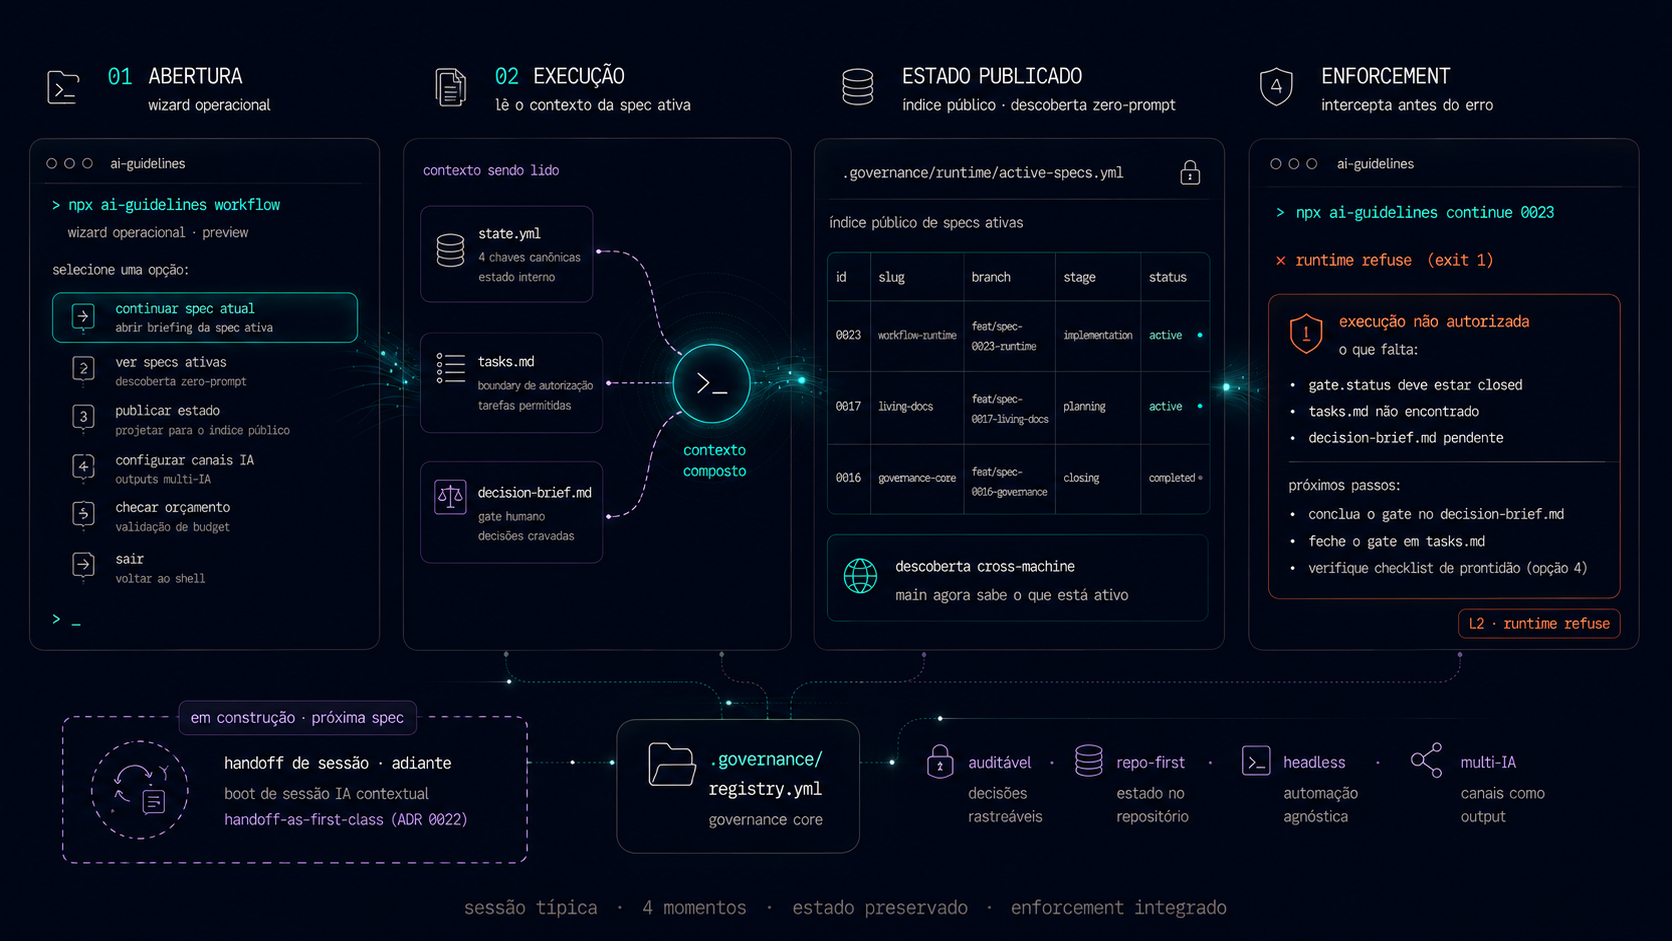
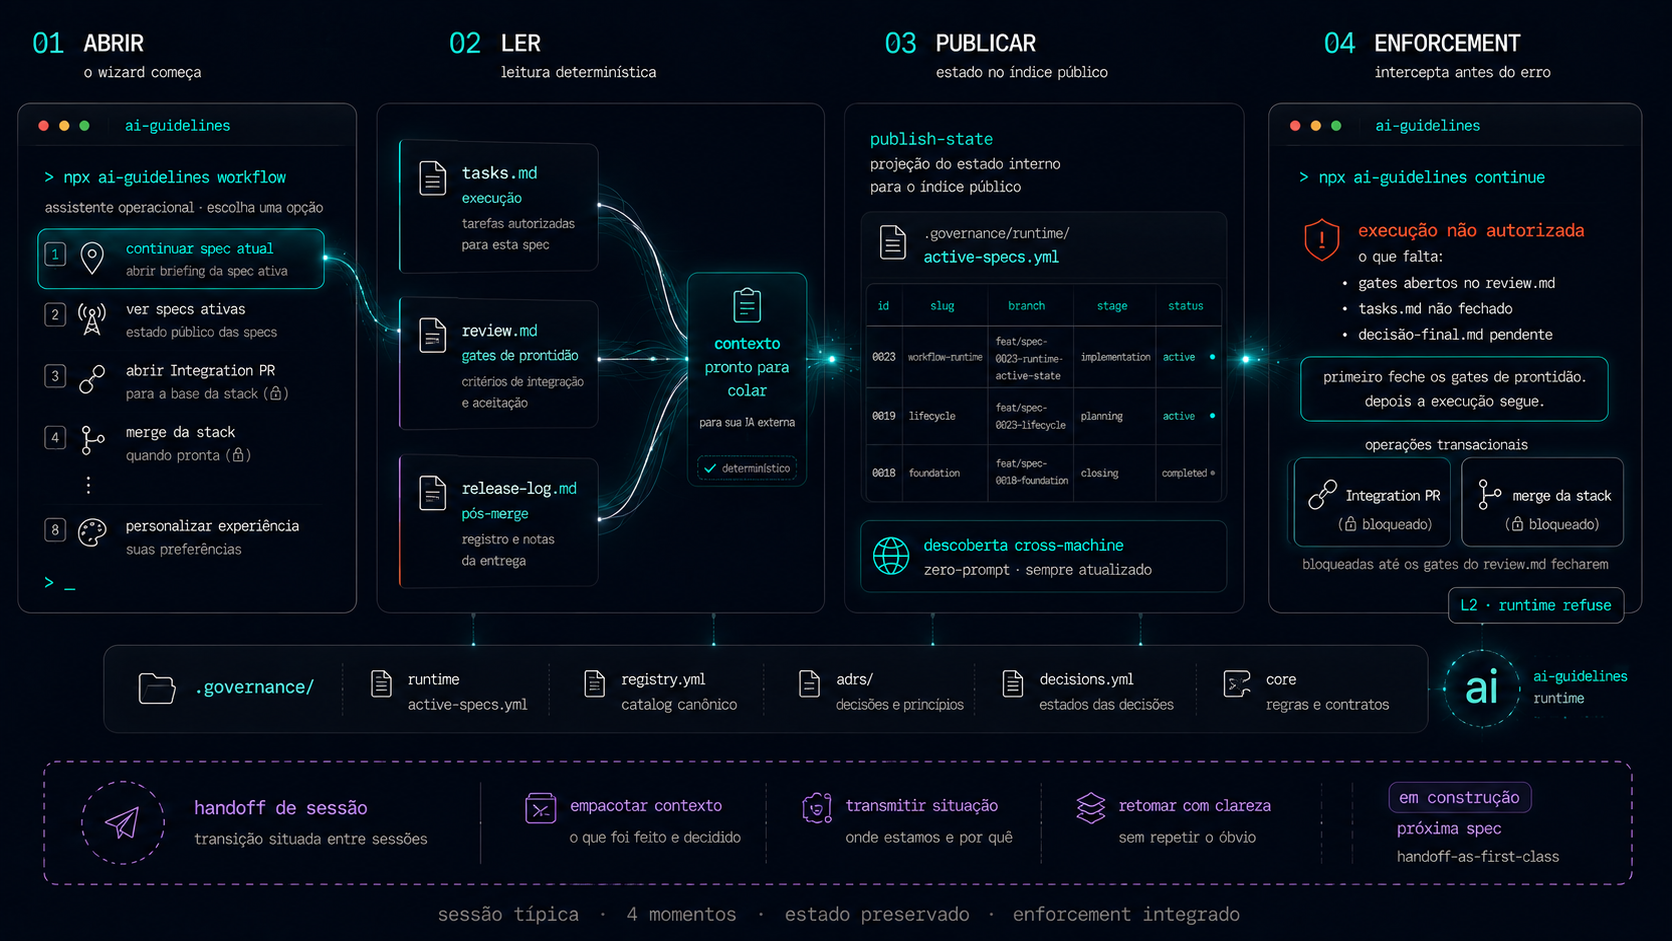
docs(editorial): prompts de imagem refletem runtime atual (R4)
readme-dx-flow: wizard 8 opções, rótulos operacionais Execução/Prontidão/Pós-merge, linhas literais de terminal, sanity checklist, bloco LÍNGUA. capability: review/release-prep nas secundárias, sem jargão L2. before-after: review.md + release-log.md nos artifacts. README da pasta: regra de sincronização. Imagem dx-flow regenerada.

diff --git a/docs/editorial/readme-dx-flow.prompt.md b/docs/editorial/readme-dx-flow.prompt.md
@@ -46,10 +46,10 @@ OBJETIVO VISUAL
 
 Mostrar 1 sessão típica com o framework, em **4 momentos honestos do que está entregue**:
 
-1. ABERTURA: terminal com `npx ai-guidelines workflow` — wizard aparece com 6 opções declarativas.
-2. EXECUÇÃO: usuário escolhe uma opção (ex.: continuar spec atual). Runtime lê `state.yml` + `tasks.md` + `decision-brief.md` da spec — representado por linhas finas convergindo no centro.
+1. ABERTURA: terminal com `npx ai-guidelines workflow` — wizard aparece com 8 opções declarativas, cada uma com ícone (📍 📍 📡 🔗 🔀 📋 🔍 🎨).
+2. LEITURA DETERMINÍSTICA (3 boundaries): usuário escolhe uma opção (ex.: continuar spec atual). Runtime lê os artifacts da spec organizados em três boundaries, com rótulos operacionais visíveis na imagem — **Execução** (`tasks.md`), **Prontidão** (`review.md`), **Pós-merge** (`release-log.md`) — representado por linhas finas convergindo no centro. Monta o "contexto pronto para colar" na IA externa.
 3. ESTADO PUBLICADO: `publish-state` projeta o estado interno para `.governance/runtime/active-specs.yml` (índice público). Cross-machine, descoberta zero-prompt.
-4. ENFORCEMENT: quando algo está fora de ordem (gate.status ≠ closed, tasks.md ausente), `continue` recusa narrativamente — não bloqueia silencioso, explica o que falta.
+4. ENFORCEMENT + READINESS GATE: quando algo está fora de ordem, o runtime intercepta narrativamente — `continue` recusa execução (gate de execução não fechado), e as ops transacionais 🔗 (Integration PR) e 🔀 (merge da stack) ficam **bloqueadas** enquanto os gates do `review.md` não fecharem. Não bloqueia silencioso: explica o que falta.
 
 A imagem comunica, em 5 segundos:
 
@@ -92,18 +92,31 @@ COMPOSIÇÃO
 Layout horizontal em 4 momentos com transições orgânicas:
 
 **Momento 1 — esquerda** (~25% da largura):
-Terminal sutil com prompt `> npx ai-guidelines workflow`. Logo abaixo, menu do wizard aparece com 6 opções declarativas curtas (não detalhar todas — sugerir as 3-4 primeiras). Tom: convidativo, não denso. Accent principal #5EEAD4.
+Terminal sutil com prompt `> npx ai-guidelines workflow`. Logo abaixo, menu do wizard aparece com 8 opções declarativas curtas (não detalhar todas — sugerir as 3-4 primeiras). Tom: convidativo, não denso. Accent principal #5EEAD4.
 
 **Momento 2 — centro-esquerda** (~25%):
-A escolha materializa uma ação. Linhas finas e silenciosas convergem dos artifacts da spec (`.governance/specs/<slug>/state.yml`, `tasks.md`, `decision-brief.md`) para o centro do quadro — representação visual de leitura determinística. Sem labels narrativos ("executando…", "carregando…"); a geometria comunica.
+A escolha materializa uma ação. Linhas finas e silenciosas convergem dos artifacts da spec, sutilmente agrupados em **três boundaries** com rótulos operacionais visíveis — **Execução** (`tasks.md`), **Prontidão** (`review.md`), **Pós-merge** (`release-log.md`) — para o centro do quadro, representação visual de leitura determinística. Pode sugerir um pequeno cartão "contexto pronto para colar". Sem labels narrativos ("executando…", "carregando…"); a geometria comunica.
 
 **Momento 3 — centro-direita** (~25%):
 Estado projetado para o índice público `.governance/runtime/active-specs.yml` — pequena tabela esquemática com 2-3 entries (id, slug, branch, stage, status). Selo discreto: "descoberta cross-machine". A força aqui é "main agora sabe o que está ativo".
 
 **Momento 4 — direita** (~25%):
-Enforcement em ação. Um caminho de execução é interceptado pelo runtime (`continue` retorna exit 1) com mensagem narrativa visível (não modal de erro corporativo — texto humano). Glow leve em #5EEAD4. Badge minúsculo: "L2 · runtime refuse".
+Enforcement + readiness gate em ação. Um caminho de execução é interceptado pelo runtime (`continue` retorna exit 1) com mensagem narrativa visível (não modal de erro corporativo — texto humano). Ao lado, as ops transacionais 🔗 e 🔀 aparecem com um pequeno cadeado discreto — bloqueadas enquanto os gates do `review.md` não fecharem. Glow leve em #5EEAD4. Badge minúsculo: "L2 · runtime refuse".
 
 Entre os momentos: respiração orgânica, transições suaves por luz. Nenhuma seta dura. A leitura é por geometria, não por numeração agressiva.
+
+————————————————————
+TEXTO LITERAL DO TERMINAL (renderizar exatamente, sem traduzir)
+————————————————————
+
+Para reduzir alucinação do gerador, use estas linhas reais do runtime nos terminais/cartões (monospace, pt-BR, exatamente como saem na CLI — não inventar outras):
+
+- Momento 1 (prompt): `> npx ai-guidelines workflow`
+- Momento 4 (bloqueio): `🔒 Integration PR bloqueado — homologação (review.md) ainda aberta.`
+- Momento 4 (itens abertos): `Itens abertos detectados em review.md:`
+- Momento 2 (handoff de contexto): `──── Contexto pronto para colar na sua IA externa ────`
+
+NÃO renderizar identificadores internos (`DEC-…`, `ADR-…`, `[1.H]`) no texto visível — usar apenas os rótulos operacionais (**Execução / Prontidão / Pós-merge**) e as linhas literais acima.
 
 ————————————————————
 ELEMENTO DIRECIONAL — HANDOFF EM CONSTRUÇÃO
@@ -154,4 +167,26 @@ A imagem deve transmitir:
 A pessoa que olha precisa sentir, sem ler nada:
 
 "trabalhar aqui é diferente — o contexto sobrevive entre sessões, e o runtime intercepta antes do erro humano custar".
+
+————————————————————
+LÍNGUA (NÃO-NEGOCIÁVEL)
+————————————————————
+
+TODO texto renderizado na imagem deve ser em **Português do Brasil (pt-BR)**. NÃO gerar texto em inglês. A única exceção são identificadores em monospace que são literais de comando/código (`npx ai-guidelines workflow`, `tasks.md`, `review.md`, `release-log.md`, `active-specs.yml`, `continue`) — esses mantêm a forma original. Selos, badges, títulos e legendas: sempre pt-BR.
 </prompt>
+
+---
+
+## Sanity checklist — o que DEVE aparecer na imagem
+
+Use para validar a imagem gerada antes de salvar em `docs/assets/ai-guidelines-dx-flow.png`:
+
+- [ ] **4 momentos** legíveis da esquerda para a direita, conectados por luz/geometria (não por setas duras).
+- [ ] **Momento 1:** prompt `npx ai-guidelines workflow` + wizard com **8 opções** (sugerir as 3-4 primeiras com ícones 📍 📡 🔗 🔀).
+- [ ] **Momento 2:** leitura convergente dos artifacts agrupados nos **3 boundaries** (`tasks.md` / `review.md` / `release-log.md`); pode haver cartão "contexto pronto para colar".
+- [ ] **Momento 3:** projeção para o índice público `active-specs.yml` (mini-tabela id/slug/branch/stage/status) + selo "descoberta cross-machine".
+- [ ] **Momento 4:** enforcement narrativo (`continue` recusa) **+** ops 🔗/🔀 com cadeado (bloqueadas por gates abertos do `review.md`).
+- [ ] **Handoff** aparece SÓ como elemento secundário pontilhado na borda, marcado "em construção" — nunca como protagonista.
+- [ ] **Kernel** `.governance/` discreto na base; **NÃO** colocar `AGENTS.md` como kernel.
+- [ ] **Todo texto em pt-BR** (exceto literais de comando/arquivo em monospace). Zero inglês renderizado.
+- [ ] Dark mode na paleta da Imagem 1; sem aparência de screenshot de IDE / tutorial / SaaS.

diff --git a/docs/editorial/README.md b/docs/editorial/README.md
@@ -62,6 +62,18 @@ Os 4 prompts honram simultaneamente:
 - **Comentário HTML no topo** — histórico de versões, destino do PNG, decisões de design.
 - **Sem PNGs versionados aqui** — apenas em `docs/assets/`. Prompts versionados regeneram representação coerente sob demanda (cf. [ADR 0023](../../.core/governance/adrs/0023-meta-artifacts-yaml-with-derivations.md)).
 
+## Manutenção — manter os prompts sincronizados (como um todo)
+
+Os 4 prompts descrevem o **mesmo runtime** sob ângulos diferentes. Quando o runtime muda (novo comando, mudança no wizard, no modelo de boundaries ou nas mensagens da CLI), **atualize todos os prompts afetados na mesma rodada** — não só o que estava em foco. Drift entre prompts gera imagens que se contradizem.
+
+Checklist ao alterar o runtime:
+
+- [ ] Contagem/ícones do wizard conferem em `readme-dx-flow` (8 opções) e nas secundárias do `readme-dx-capability`.
+- [ ] Comandos primários/secundários do `readme-dx-capability` refletem a superfície real (`workflow`, `continue`, `review`, `publish-state`, `release-prep`…), sem jargão interno (nada de "L2", `DEC-…`, `ADR-…` no texto visível).
+- [ ] Boundaries da spec (Execução `tasks.md` / Prontidão `review.md` / Pós-merge `release-log.md`) aparecem coerentes em `readme-dx-flow` e `readme-dx-before-after`.
+- [ ] Linhas literais de terminal (em `readme-dx-flow`) batem com as strings reais da CLI.
+- [ ] Todo texto renderizável em pt-BR (exceto literais de comando/arquivo em monospace).
+
 ## Anti-objetivos
 
 - LLM no runtime para refinar prompts (humano edita via PR; geração externa).

diff --git a/docs/editorial/readme-dx-capability.prompt.md b/docs/editorial/readme-dx-capability.prompt.md
@@ -109,7 +109,7 @@ Disposição escolhida deve transmitir: editorial premium · contrato fechado ·
 "wizard operacional · preview"
 
 `npx ai-guidelines continue`
-"briefing da spec ativa · enforcement L2"
+"briefing da spec ativa · enforcement de pré-condições"
 
 `npx ai-guidelines update`
 "re-aplica baseline · headless"
@@ -126,7 +126,7 @@ Cada comando:
 
 **Linha de horizonte sutil** abaixo dos comandos, em rgba(148,163,184,0.18), com micro-labels em #A78BFA — capacidades secundárias (citadas como referência opt-in):
 
-`providers` · `check-budget` · `workflow publish-state` · `governance-pr-check`
+`providers` · `review` · `workflow publish-state` · `release-prep`
 
 Esses elementos têm 30% do peso visual dos comandos primários. Mostram que existem, sem competir.
 

diff --git a/docs/editorial/readme-dx-before-after.prompt.md b/docs/editorial/readme-dx-before-after.prompt.md
@@ -138,7 +138,9 @@ Layout:
 - Em volta, **artifacts vivos**:
   - `.governance/specs/<slug>/spec.md` (imutável após review)
   - `.governance/specs/<slug>/state.yml` (4 chaves)
-  - `.governance/specs/<slug>/tasks.md` (boundary de autorização)
+  - `.governance/specs/<slug>/tasks.md` (execução)
+  - `.governance/specs/<slug>/review.md` (prontidão de integração)
+  - `.governance/specs/<slug>/release-log.md` (registro pós-merge, condicional)
   - `.governance/specs/<slug>/decision-brief.md` (gate humano)
   - `.governance/runtime/active-specs.yml` (índice público)
 - Na periferia, **canais multi-IA** sincronizados, todos partindo do mesmo kernel:
